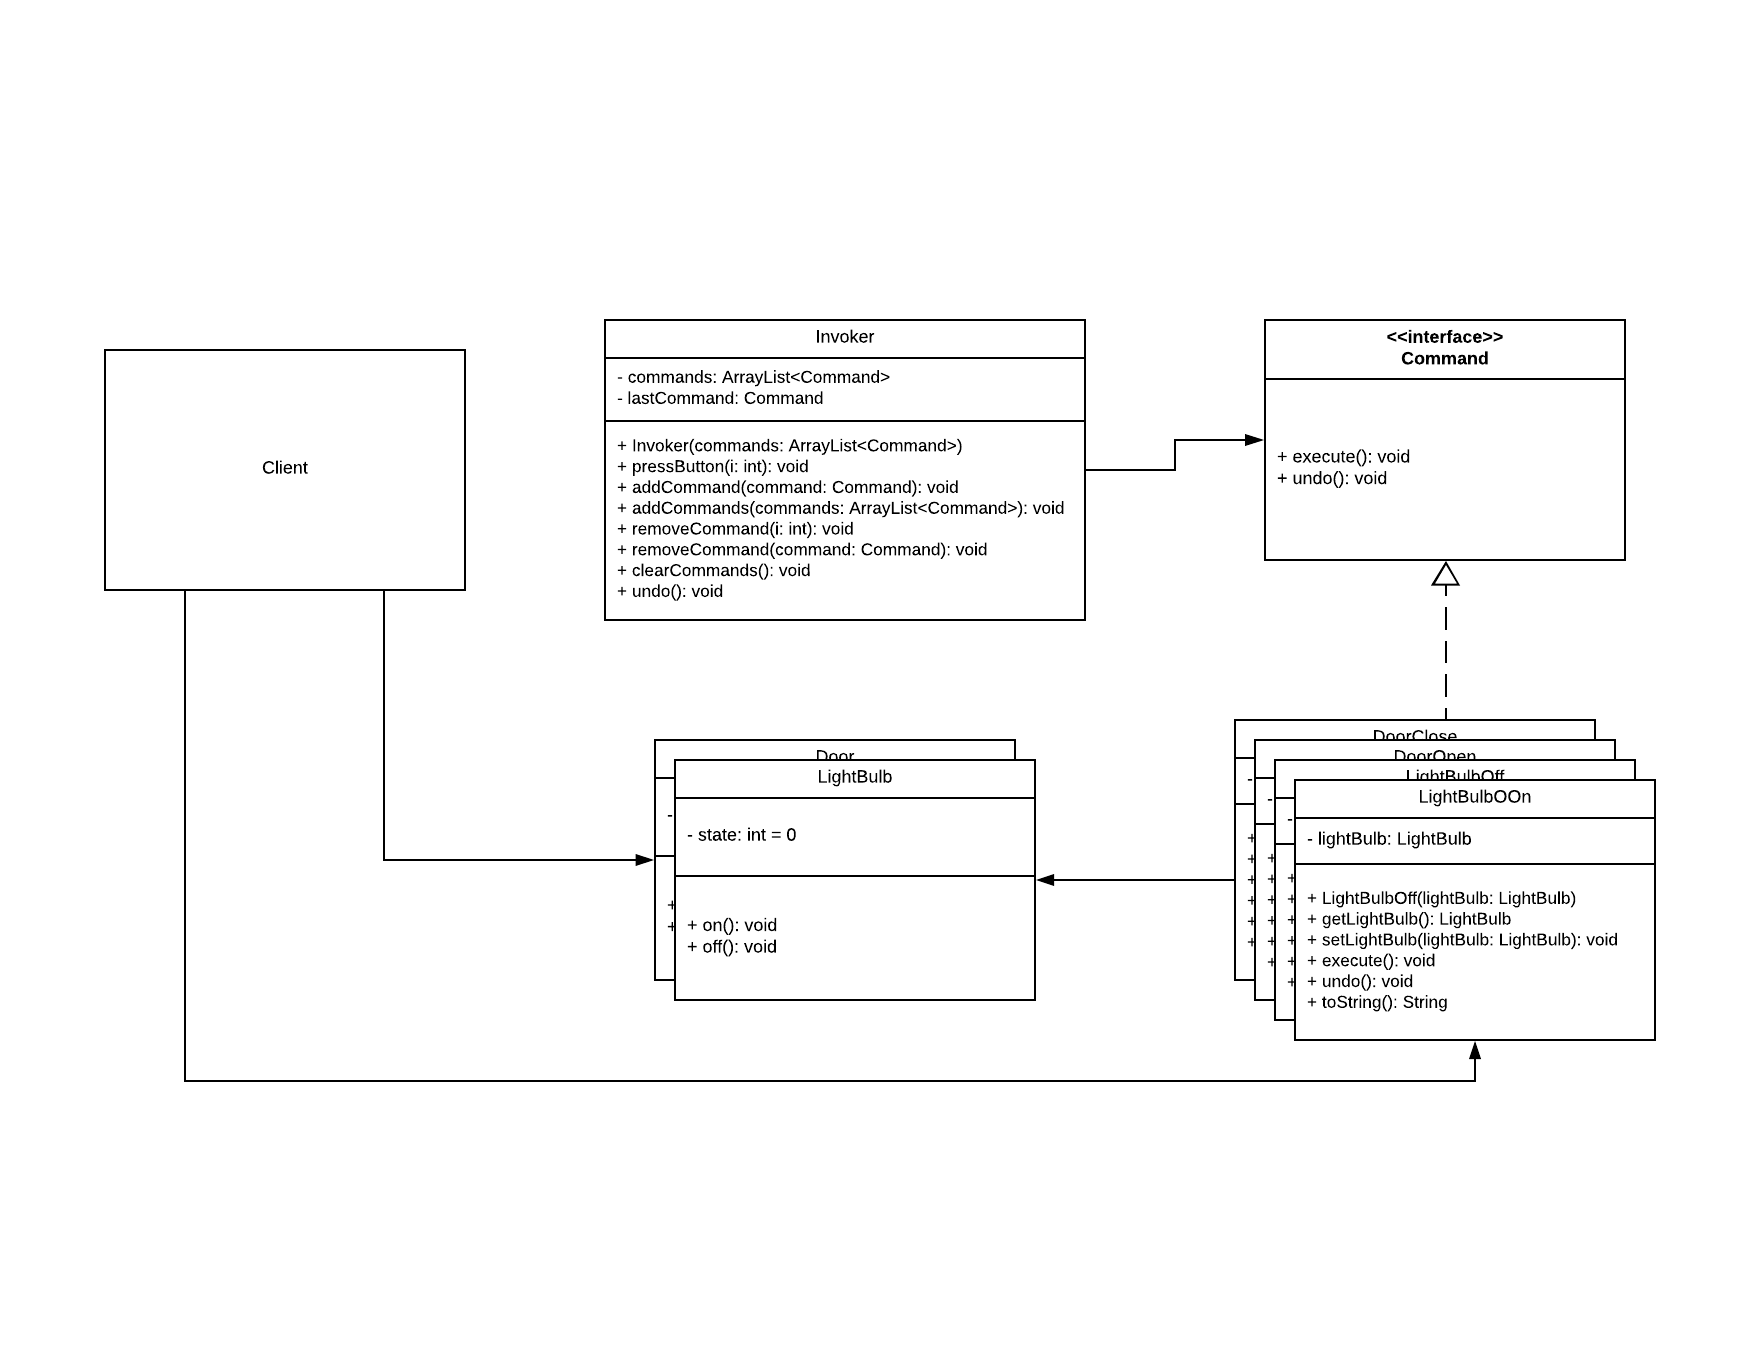
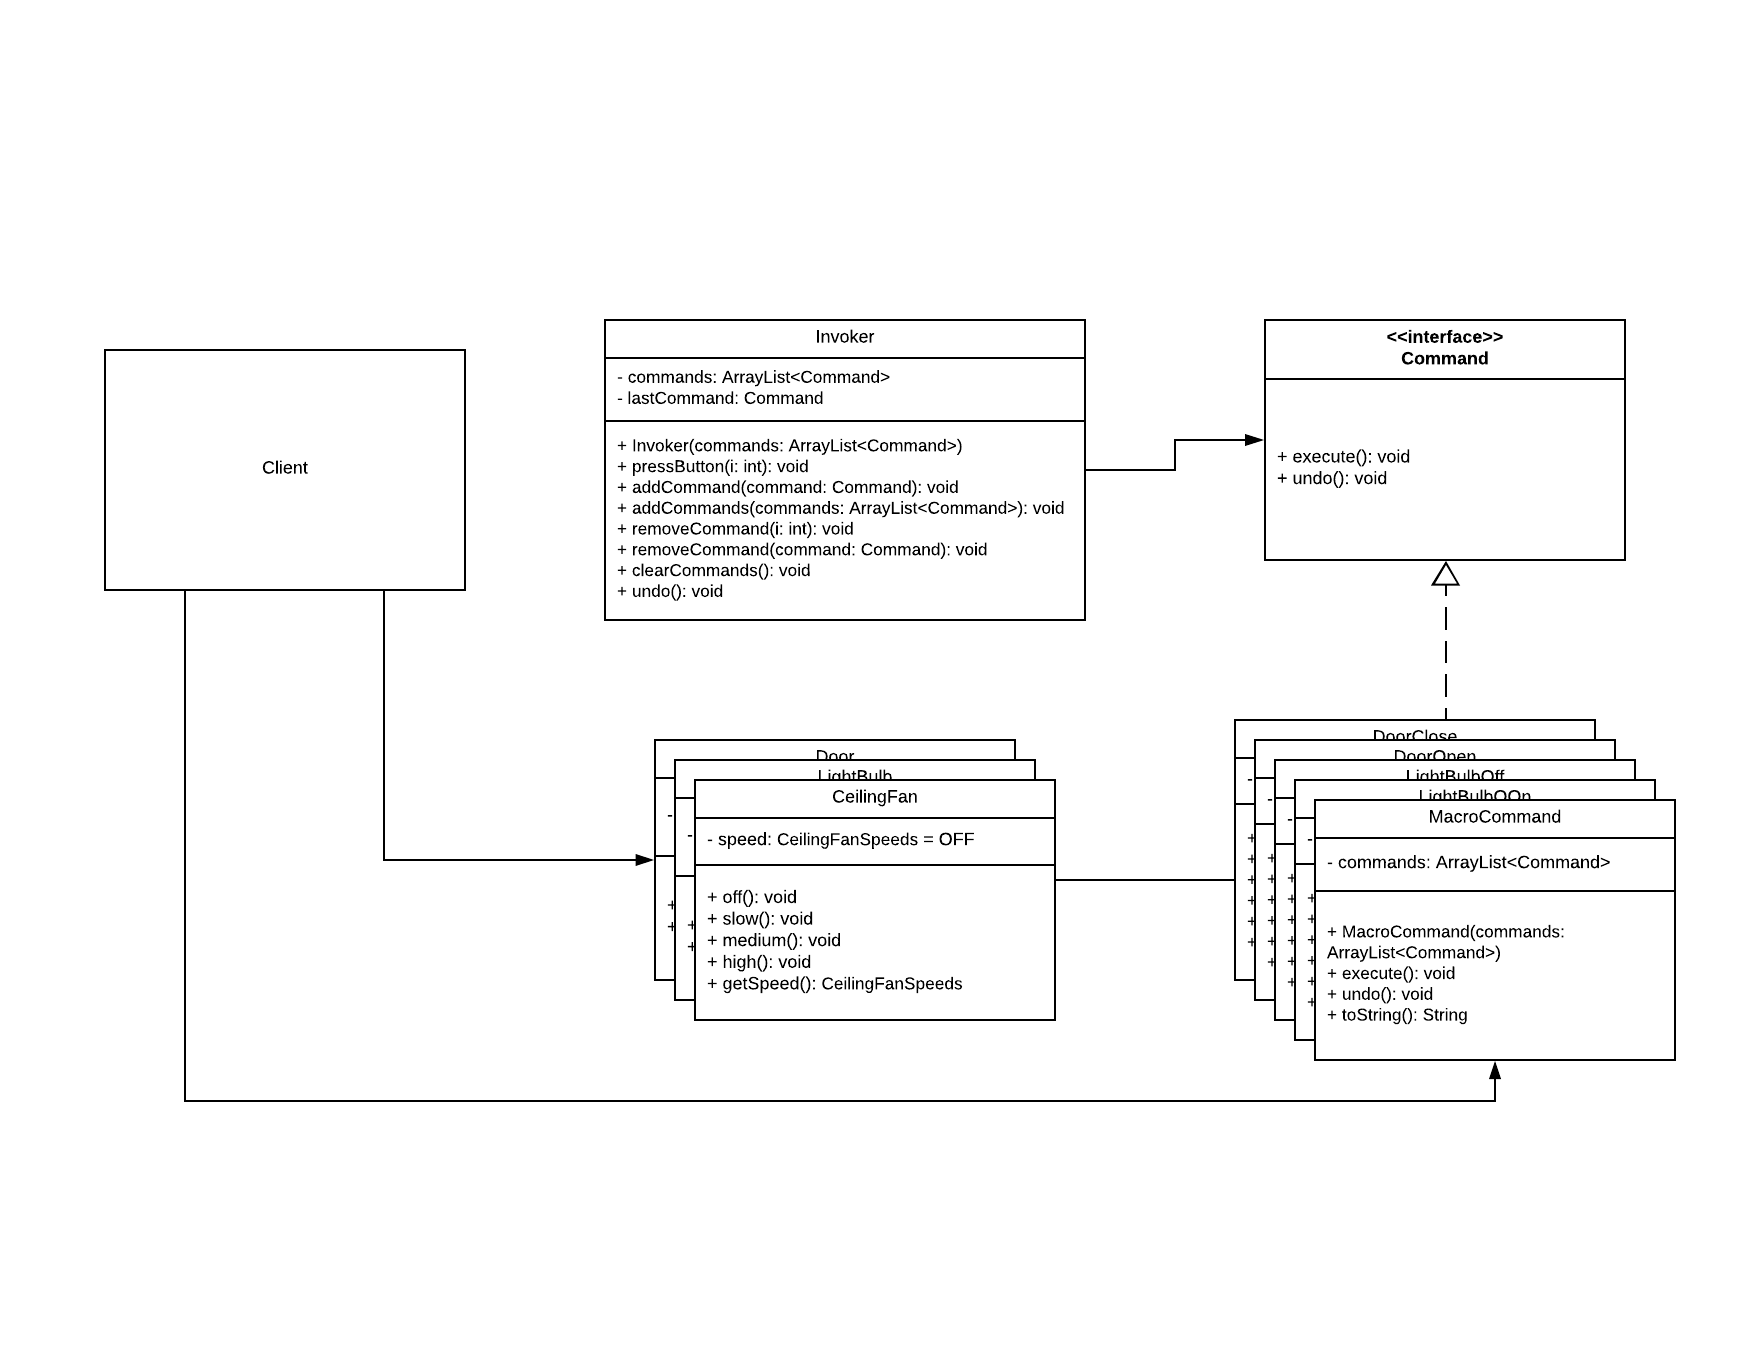
Add MacroCommand

Changed region(s): [[0.75, 0.5868, 0.9688, 0.8029], [0.375, 0.5559, 0.5938, 0.7412]]

diff --git a/180316_Command_01/src/Client/Main.java b/180316_Command_01/src/Client/Main.java
@@ -3,24 +3,30 @@ package Client;
 import Commands.*;
 import Invoker.Invoker;
 import Receivers.CeilingFan;
+import Receivers.Door;
+import Receivers.LightBulb;
 
 import java.util.ArrayList;
 
 public class Main {
     public static void main(String[] args) {
+        Door door = new Door();
+        LightBulb lightBulb = new LightBulb();
         CeilingFan ceilingFan = new CeilingFan();
 
         ArrayList<Command> commands = new ArrayList<Command>(){{
-           add(new CeilingFanCommand(ceilingFan));
+            add(new DoorOpen(door));
+            add(new LightBulbOn(lightBulb));
+            add(new CeilingFanCommand(ceilingFan));
         }};
 
-        Invoker invoker = new Invoker(commands);
+        MacroCommand macroCommand = new MacroCommand(commands);
+
+        Invoker invoker = new Invoker(new ArrayList<Command>(){{add(macroCommand);}});
+
         invoker.pressButton(0);
-        invoker.pressButton(0);
-        invoker.pressButton(0);
-        invoker.pressButton(0);
+
         invoker.undo();
-        invoker.undo();
-        invoker.undo();
+
     }
 }

diff --git a/180316_Command_01/src/Commands/MacroCommand.java b/180316_Command_01/src/Commands/MacroCommand.java
@@ -1,0 +1,33 @@
+package Commands;
+
+import java.util.ArrayList;
+import java.util.Collections;
+
+public class MacroCommand implements Command {
+    private ArrayList<Command> commands;
+
+    public MacroCommand(ArrayList<Command> commands) {
+        this.commands = commands;
+    }
+
+    @Override
+    public void execute() {
+        for (Command command: this.commands) {
+            command.execute();
+        }
+    }
+
+    @Override
+    public void undo() {
+        ArrayList<Command> tmpCommands = this.commands;
+        Collections.reverse(tmpCommands);
+        for (Command command : tmpCommands) {
+            command.undo();
+        }
+    }
+
+    @Override
+    public String toString() {
+        return this.getClass().getSimpleName();
+    }
+}
